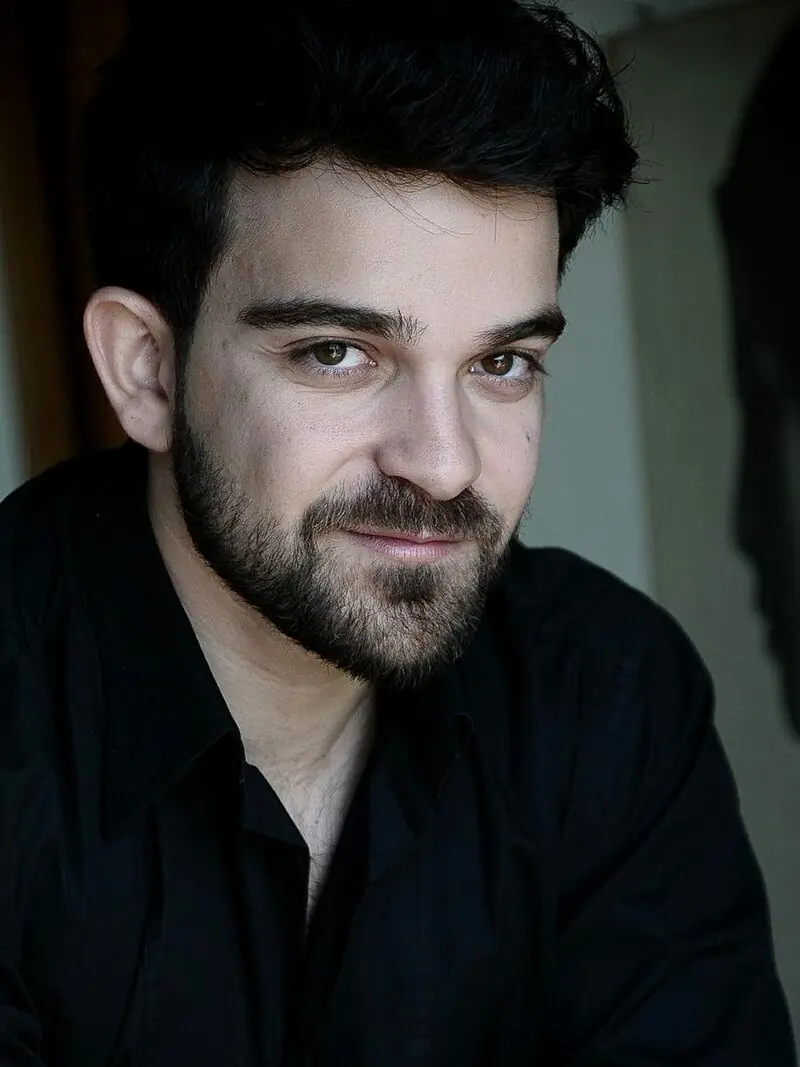
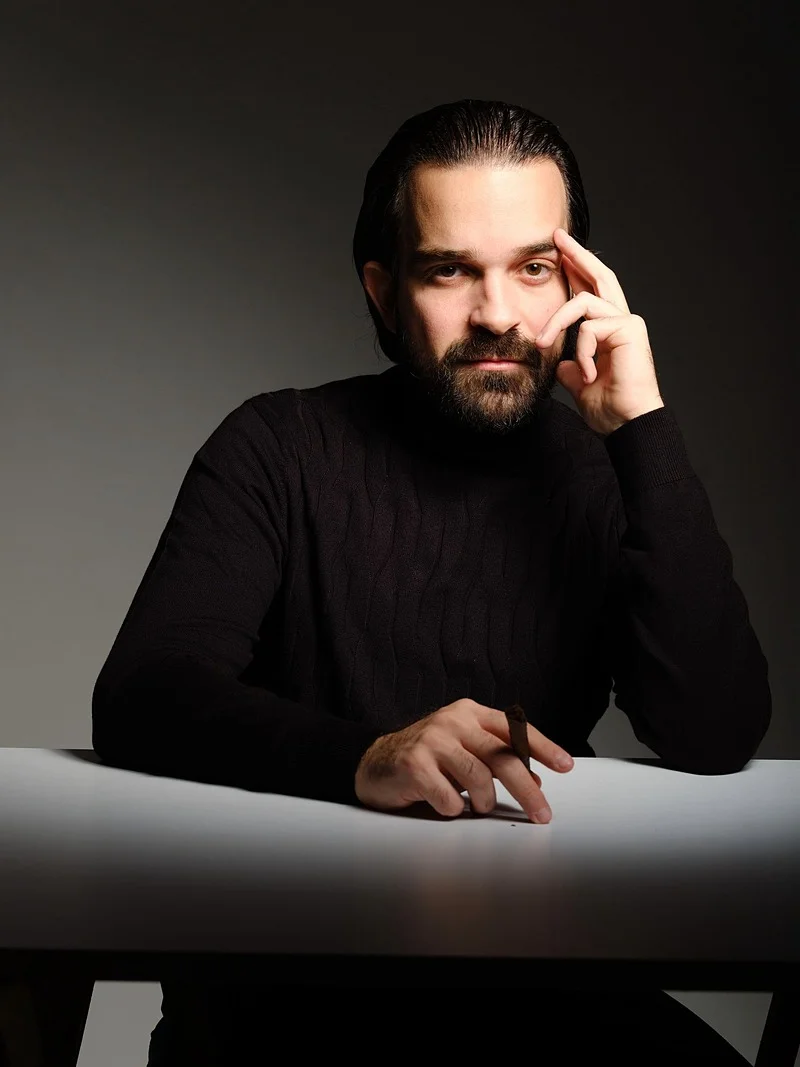
ok

diff --git a/GIT_TROUBLESHOOTING.md b/GIT_TROUBLESHOOTING.md
@@ -1,0 +1,114 @@
+# Git Troubleshooting — Accademia PROSŌPON
+
+Soluzioni rapide ai problemi più comuni con Git su questo progetto.
+
+## Sblocco file `.lock` (errori "Another git process seems to be running")
+
+Quando Git si blocca (di solito dopo un'interruzione brusca, una chiusura forzata, o un altro processo Git ancora aperto), lascia dei file `.lock` nella cartella `.git/`. Va eliminato il file `.lock` corrispondente.
+
+### Lock più comuni
+
+**`index.lock`** (il più frequente) — appare durante `git add`, `git commit`, `git checkout`, `git pull`:
+
+```bash
+cd /Users/giampieromarchi/Desktop/Accademia_prosopon
+rm -f .git/index.lock
+```
+
+**`HEAD.lock`** — appare durante operazioni che modificano HEAD (`git reset`, `git checkout`, `git rebase`):
+
+```bash
+rm -f .git/HEAD.lock
+```
+
+**Lock sui refs** (`refs/heads/main.lock`, `refs/heads/master.lock`, ecc.) — appare durante `git push`, `git fetch`, `git merge`:
+
+```bash
+rm -f .git/refs/heads/*.lock
+```
+
+**Lock pack/objects** (raro, durante `git gc` o `git repack`):
+
+```bash
+rm -f .git/objects/pack/*.lock
+rm -f .git/gc.pid
+```
+
+### Comando "tutto in uno" (sicuro)
+
+Se non sei sicuro quale lock c'è, esegui questo che li toglie tutti senza errori se non esistono:
+
+```bash
+cd /Users/giampieromarchi/Desktop/Accademia_prosopon
+rm -f .git/index.lock .git/HEAD.lock .git/refs/heads/*.lock .git/objects/pack/*.lock .git/gc.pid 2>/dev/null
+echo "Lock puliti."
+```
+
+### Prima di togliere il lock — controlla che non ci sia un processo Git attivo
+
+Se cancelli un `.lock` mentre un'altra istanza di Git sta ancora lavorando, puoi corrompere il repository. Controlla prima:
+
+```bash
+ps aux | grep -i git | grep -v grep
+```
+
+Se vedi un processo `git` ancora attivo (es. da un altro terminale o da VS Code), aspettalo o chiudilo (`kill PID`) prima di rimuovere il `.lock`.
+
+---
+
+## Altri problemi comuni
+
+### `error: pathspec ... did not match any file(s) known to git`
+Il file referenziato non esiste o è stato spostato. Verifica con `git status` cosa Git vede.
+
+### `fatal: refusing to merge unrelated histories`
+Tipicamente succede al primo push di un repo locale verso uno remoto già inizializzato. Soluzione:
+```bash
+git pull origin main --allow-unrelated-histories
+```
+
+### `Updates were rejected because the remote contains work that you do not have`
+Il remoto ha commit nuovi che non hai in locale. Soluzione standard:
+```bash
+git pull --rebase origin main
+git push origin main
+```
+
+### File `.DS_Store` continuano a tornare nel repo
+Sono cache di Finder su macOS. Già coperti in `.gitignore`. Se ne resta uno nel repo tracciato:
+```bash
+git rm --cached .DS_Store
+git rm --cached "**/.DS_Store"
+git commit -m "Rimuove .DS_Store dal tracking"
+```
+
+### Resettare un commit ancora non pushato (annullare un commit locale sbagliato)
+```bash
+git reset --soft HEAD~1   # mantiene le modifiche in staging
+git reset HEAD~1          # mantiene le modifiche ma le toglie da staging
+git reset --hard HEAD~1   # CANCELLA le modifiche definitivamente (attento!)
+```
+
+### Vedere cosa ha modificato un commit
+```bash
+git show <commit-hash>
+git log --stat -1         # ultimo commit con elenco file
+```
+
+### Vedere chi ha modificato una riga di un file (blame)
+```bash
+git blame nome-file.html
+```
+
+---
+
+## Note specifiche al progetto
+
+- Il repo è hostato su GitHub Pages. Il branch attivo del deploy è probabilmente `main`.
+- Non esistono submodule, hook custom o LFS.
+- I file di backup creati dagli agenti durante lo sviluppo (`_backup_pre_r10/`, `_backup_pre_r11/`, `_backup_pre_r12/`, `_backup_pre_r16/` in `assets/docenti/`) **non devono essere committati**. Aggiungili al `.gitignore` se non già coperti.
+
+```bash
+# Verifica .gitignore copre i backup
+grep -q "_backup_" .gitignore || echo "_backup_*" >> .gitignore
+```

diff --git a/TODO.md b/TODO.md
@@ -26,6 +26,28 @@ Motivazione: l'attuale tab "Online" è una soluzione TRANSITORIA — quando il t
 
 ---
 
+## 🟢 ROUND 23 — SOSTITUZIONE FOTO ANDREA PUGLISI (2026-05-04)
+
+> **2026-05-04 — R23: sostituita foto Andrea Puglisi con puglisi3.JPG (nuova versione fornita dall'utente)**
+>
+> Nuova foto sorgente fornita dall'utente: `puglisi3.JPG` (1486x1981, 152 KB, JPEG sRGB, già 3:4 verticale, nessun EXIF Orientation).
+> Rigenerati i 3 asset web preservando i nomi file (referenziati negli HTML).
+
+### File toccati — `assets/docenti/`
+- [x] **Backup creato**: `_backup_pre_r23/` con `andrea-puglisi.jpg` (128 KB), `andrea-puglisi.webp` (38 KB), `andrea-puglisi-mini.webp` (4.7 KB) — versioni precedenti preservate. *(Image Engineer R23)*
+- [x] **`andrea-puglisi.jpg` rigenerato**: 800x1067 (3:4), qualità 92, unsharp 0x1+0.5+0, saturazione +3%, sRGB strip EXIF, 97 KB. *(Image Engineer R23)*
+- [x] **`andrea-puglisi.webp` rigenerato**: 800x1067, qualità 85, 39 KB. *(Image Engineer R23)*
+- [x] **`andrea-puglisi-mini.webp` rigenerato**: 240x320, qualità 82, 4.9 KB. *(Image Engineer R23)*
+- [x] **`puglisi3.JPG` (source) spostato in backup**: `_backup_pre_r23/puglisi3-source.JPG`. *(Image Engineer R23)*
+- [x] **`andrea-puglisi2.jpg` (residuo non referenziato) spostato in backup**: verificato con grep — zero occorrenze in `*.html`, `*.css`, `*.js`, `*.md`. *(Image Engineer R23)*
+- [x] **`.DS_Store` eliminato** da `assets/docenti/` (già in `.gitignore`). *(Image Engineer R23)*
+
+### Integrazione HTML (nessuna modifica necessaria)
+- [x] Verificato che tutti i tag `<picture>` di Puglisi (index.html, docenti.html, accademia.html) referenziano già i nomi `andrea-puglisi.jpg` / `andrea-puglisi.webp` / `andrea-puglisi-mini.webp`. Sostituzione fisica = sostituzione live. *(Image Engineer R23)*
+- [x] Verificato `width`/`height` degli `<img>`: 400x533 in docenti.html (3:4 = 0.7505) coerente con 800x1067 (3:4 = 0.7498). I 420x420 / 120x120 / 600x600 sono cerchi/quadrati con `object-fit:cover` — compatibili con qualsiasi sorgente 3:4. Nessun adeguamento richiesto. *(Image Engineer R23)*
+
+---
+
 ## 🟢 ROUND 22 — SEPARAZIONE EVENTI / FORMAZIONE (strada B) (2026-05-04)
 
 > **2026-05-04 — R22: separazione eventi/formazione (strada B) — eventi diventa vetrina pubblica (open day, audizioni, spettacoli), no più laboratori/masterclass**